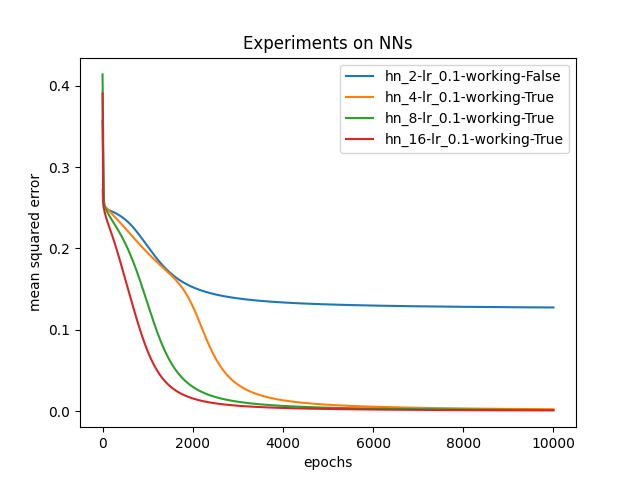
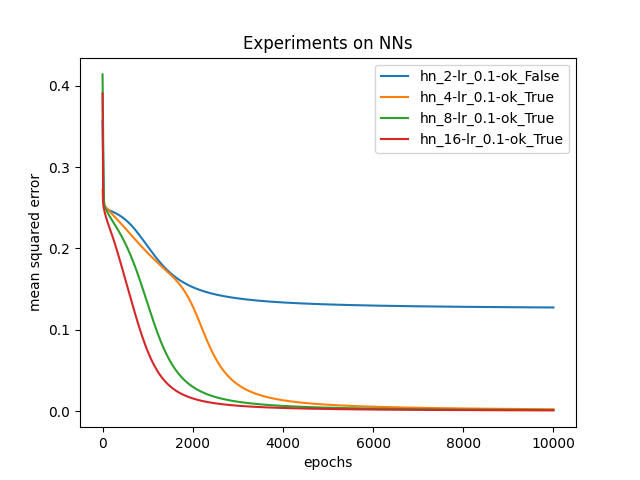
description in plots

Changed region(s): [[0.5312, 0.125, 0.875, 0.3125]]

diff --git a/experiments.py b/experiments.py
@@ -38,7 +38,7 @@ for hn in hidden_nodes:
             learned = np.array_equal(y,preds)
 
             # name of current experiment
-            exp_name = f"hn_{hn}-lr_{lr}-working-{learned}"
+            exp_name = f"hn_{hn}-lr_{lr}-ok_{learned}"
             exp_names.append(exp_name)
 
             
